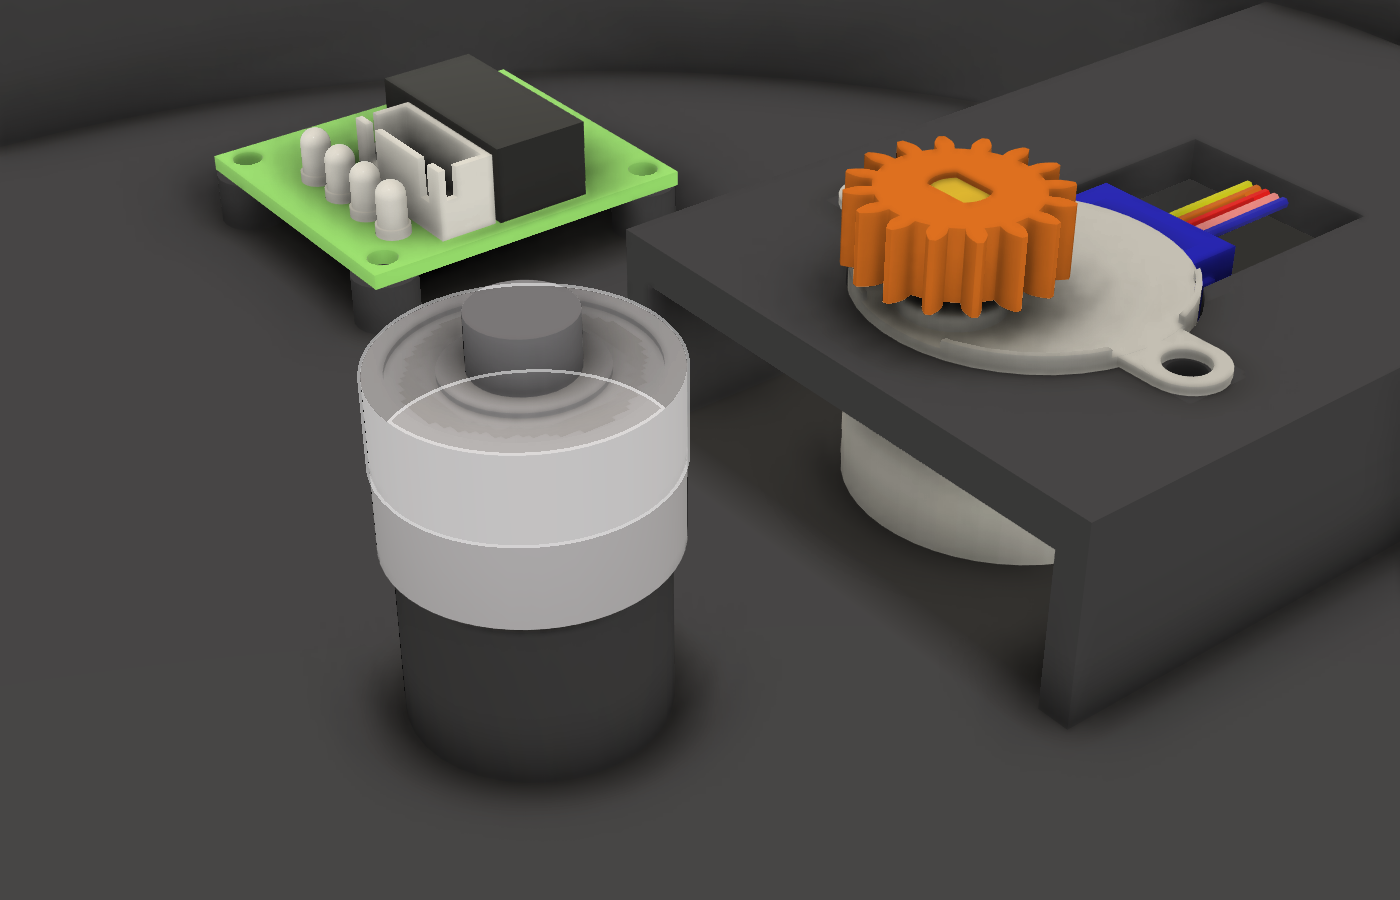
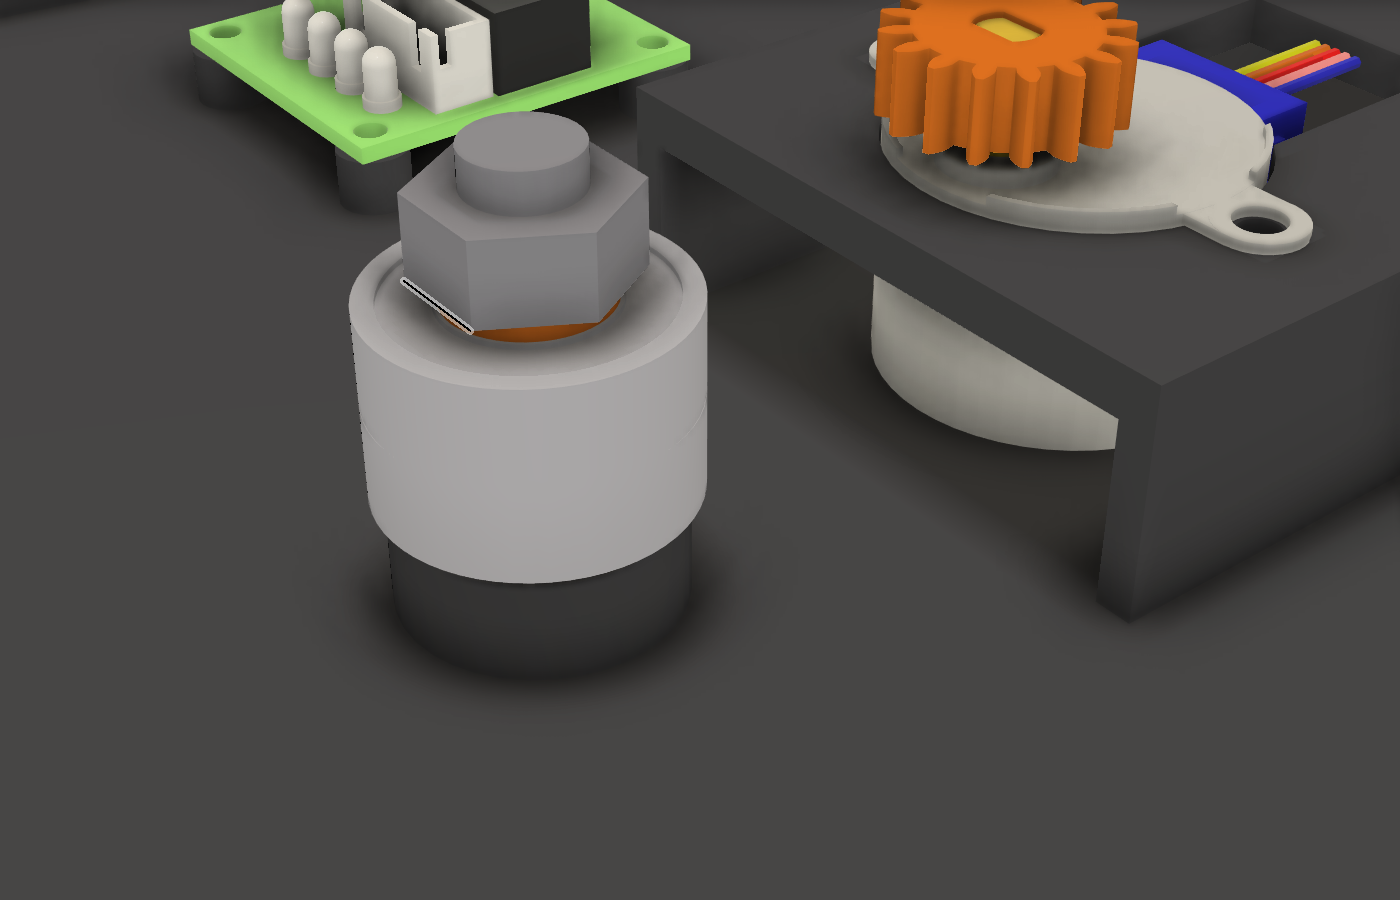
Turntable: clamp the bearings on the axle with a nylock nut
Nothing held the bearings or the bolt: a printed spacer on the upper inner race and an M8
nylock nut now clamp both inner races onto the boss's ring and pull the bolt's head up into
its hex. The bearings sit 6 mm lower in the platter's hub to make room; the platter still
rests on the upper outer race and lifts off.

diff --git a/turntable_fusion.py b/turntable_fusion.py
@@ -53,7 +53,11 @@ MOTOR_HOUSING = (31.0, 9.5)  # blue cover and wire exit, from the body's centre 
 PINION_Z = (MOTOR_PLATE_TOP + MOTOR_FLATS[0] + 0.1, MOTOR_PLATE_TOP + MOTOR_FLATS[1] + 0.4)
 PLATTER_Z0 = PINION_Z[1] + 1.0      # platter underside; its top is PLATTER_Z0 + PLATTER_T
 GEAR_Z0 = PINION_Z[0] - 0.5         # platter gear: GEAR_Z0 .. PLATTER_Z0
-HUB_Z0 = PLATTER_Z0 - 2 - BEARING_STACK   # bearings below a 2 mm lip
+# Above the bearings, inside the hub: a printed spacer on the upper inner race and an M8 nylock nut (DIN 985, 6 mm)
+# that clamps both inner races onto the boss's ring and pulls the bolt's head up against its hex.
+AXLE_SPACER = (11.5, 8.4, 1.5)      # od, id, height: touches the inner race only, clear of the ZZ shields
+AXLE_NUT = (13.0, 6.0)              # across flats, height
+HUB_Z0 = PLATTER_Z0 - 22.0          # bearings 14, then spacer and nut in the hub's 16.5 mm bore
 BASE_TOP = PLATTER_Z0 - 2           # the wall stops under the platter's rim
 
 # Reference models (escornabot/3dmodel, MIT, in ./models), placed in the design by the script.
@@ -255,7 +259,7 @@ COLORS = [
     ("Piatto", (240, 240, 235)), ("Inserti", (20, 20, 20)), ("Base", (90, 90, 95)),
     ("Pignone", (230, 120, 30)), ("Pomell", (230, 120, 30)), ("Prova", (230, 120, 30)),
     ("Supporto", (200, 60, 60)), ("RIF iPhone", (40, 40, 50)), ("RIF cuscinetti", (190, 190, 200)),
-    ("RIF vite", (150, 150, 160)),
+    ("RIF vite", (150, 150, 160)), ("RIF dado", (150, 150, 160)), ("Distanziale", (230, 120, 30)),
     ("Braccio", (70, 110, 170)), ("Torre", (70, 110, 170)), ("Ganascia", (70, 110, 170)), ("Attacco", (70, 110, 170)),
 ]
 
@@ -299,7 +303,9 @@ def platter(root):
     gear = prisms(root, [gear_outline(GEAR_TEETH, GEAR_MODULE, GEAR_BACKLASH)], GEAR_Z0, PLATTER_Z0 - GEAR_Z0 + 0.1)[0]
     union(body, gear, cyl(0, 0, HUB_Z0, GEAR_Z0 + 0.1, BEARING_OD + 8))
     # Bearings from below; the upper outer race carries the platter. Clearance above for the axle's end.
-    cut(body, cyl(0, 0, HUB_Z0 - 1, HUB_Z0 + BEARING_STACK, BEARING_OD), cyl(0, 0, HUB_Z0 - 1, top - 3, 10))
+    # The upper outer race carries the platter on a ring between the bearing bore and the 16.5 mm bore above it, where
+    # the spacer and the nut sit.
+    cut(body, cyl(0, 0, HUB_Z0 - 1, HUB_Z0 + BEARING_STACK, BEARING_OD), cyl(0, 0, HUB_Z0 - 1, top - 3, 16.5))
     for x, y, ring in dots():
         cut(body, cyl(x, y, top - INSERT_DEPTH, top + 1, DOT_D))
         if ring:
@@ -585,6 +591,16 @@ def bearing_dummies():
     return out
 
 
+def axle_nut_dummies(root):
+    """The printed spacer and the M8 nylock nut on top of the upper bearing."""
+    od, idd, sh = AXLE_SPACER
+    z = HUB_Z0 + BEARING_STACK
+    spacer = cut(cyl(0, 0, z, z + sh, od), cyl(0, 0, z - 1, z + sh + 1, idd))
+    af, nh = AXLE_NUT
+    nut = cut(prisms(root, [hexagon(af)], z + sh, nh)[0], cyl(0, 0, z, z + sh + nh + 1, 8))
+    return spacer, nut
+
+
 def axle_dummy(root):
     """The M8 x 30 hex bolt: head in the hex under the base, shank up through the boss and the bearings."""
     head = prisms(root, [hexagon(13.0)], 0, 5.3)[0]
@@ -751,6 +767,8 @@ def run(_context):
         ("Pomello M6", [knob6]),
         ("Pomello M5", [knob5]),
     ]
+    spacer, nut = axle_nut_dummies(root)
+    printed.append(("Distanziale asse", [spacer]))
     name, w, t, h, bump = PHONES[0]
     gap = jaw_gap(w, t)
     printed += [
@@ -761,7 +779,7 @@ def run(_context):
         ("Attacco treppiede", [tripod_adapter(root, tripod_axis_shown())]),
     ]
     reference = [(f"RIF {name}", [phone_dummy(w, t, h, bump)]), ("RIF cuscinetti 608ZZ", bearing_dummies()),
-                 ("RIF vite M8x30", [axle_dummy(root)])]
+                 ("RIF vite M8x30", [axle_dummy(root)]), ("RIF dado M8 autobloccante", [nut])]
 
     for name, bodies in printed + reference + test_parts(root):
         add_part(root, name, bodies)

diff --git a/README.md b/README.md
@@ -48,6 +48,7 @@ face. Also try the M5 and M6 nuts in one Pomello M5 and Pomello M6, which you ne
 | Ganascia sinistra, Ganascia destra | any | outer face on the bed, so the V groove prints without supports |
 | Pomello M6, Pomello M5 | any | nut pocket up; press the nut in |
 | Pomelli ganasce (2) | any | the M5 knob again, one per jaw |
+| Distanziale asse | any | flat (a 1.5 mm ring) |
 | Attacco treppiede | any | block on the bed, nut slot on the side, no supports (optional, see below) |
 
 The dots sit exactly where the paper mat has them (ring Ø176, dots Ø9, holes Ø4.5) and the same way round seen from
@@ -65,6 +66,7 @@ marks where the piece must stand. Insert fit is `INSERT_CLEAR` (0.15 mm radial).
 | 1 | ESP32-S3-WROOM-1 devkit, 2 × USB-C (57 × 28.3 mm), headers soldered pins down | in its holder in the base | [Binghe S3-DevKitC-1 N16R8, Amazon.it](https://www.amazon.it/dp/B0D6B2CYNW): €24.99 for 3 (Jun 2026) |
 | 2 | 608ZZ bearing (8 × 22 × 7) | pressed into the platter's hub | [YAPKOLV, Amazon.it](https://www.amazon.it/dp/B0F6LHYSS8): €7.49 for 12 (Apr 2026) |
 | 1 | M8 × 30 hex bolt | the axle, head pressed into the hex under the base |  |
+| 1 | M8 nylock nut, DIN 985 (6 mm) | on the printed spacer, clamps the bearings' inner races on the axle |  |
 | 2 | M3 × 8 screw + M3 nut | motor ears to the plate |  |
 | 4 | M3 × 6 self-tapping screw | ULN2003 board to its standoffs |  |
 | 2 | M4 × 16 screw + M4 nut | arm to the base (nuts in the pockets inside the base) |  |
@@ -168,7 +170,11 @@ ESP32-S3-DevKitC-1. Open the folder in the pioarduino IDE and use Upload, or fro
 ## Geometry
 
 - The axle: the M8 × 30 bolt's head sits in the hex under the base, its shank goes up through the central boss;
-  the two 608ZZ slide onto it, their inner races on the boss's 11.5 mm ring, and the platter's hub sits over them.
+  the two 608ZZ slide onto it, their inner races on the boss's 11.5 mm ring. On top go the printed `Distanziale asse`
+  (11.5 × 8.4 × 1.5 mm, on the inner race only, clear of the ZZ shields) and an M8 nylock nut (DIN 985): tightened,
+  it clamps both inner races onto the ring and pulls the bolt's head up into its hex, so neither the bearings nor
+  the bolt can move. Then the platter's hub is pressed down over the outer races; it rests on the upper one and
+  lifts off again.
 
   ![Axle and bearings](asse.png)
 
